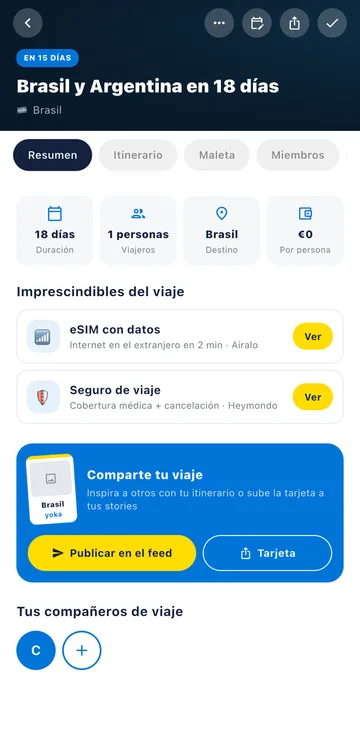
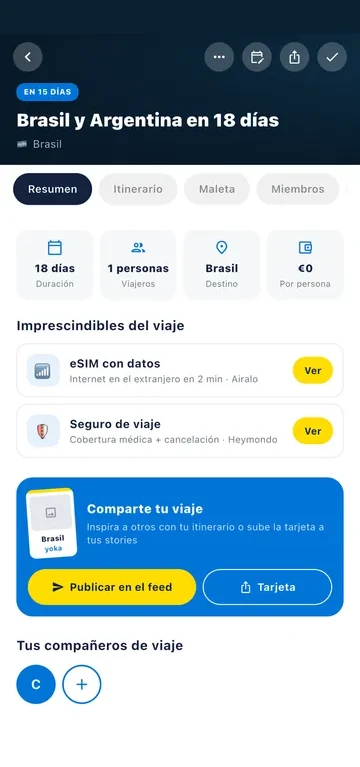
Capturas con margen superior para que no se coma el título
- Franja superior del color de cada pantalla en todas las capturas
- Proporción del marco de la portada ajustada para no recortar los lados

Claude-Session: https://claude.ai/code/session_019zYunJkvMAZWnFHBhGN1Kh

Changed region(s): [[0.0, 0.0, 1.0, 0.9304], [0.6417, 0.4502, 0.7028, 0.5102]]

diff --git a/como-funciona.html b/como-funciona.html
@@ -351,7 +351,7 @@
 
 
   /* ---------- CAPTURAS REALES DE LA APP ---------- */
-  .shot{width:160px; aspect-ratio:360/733; background:var(--ink); border-radius:26px; padding:5px; margin:0 auto 18px; box-shadow:0 14px 28px rgba(20,33,61,0.18);}
+  .shot{width:160px; aspect-ratio:360/767; background:var(--ink); border-radius:26px; padding:5px; margin:0 auto 18px; box-shadow:0 14px 28px rgba(20,33,61,0.18);}
   .shot img{display:block; width:100%; height:100%; object-fit:cover; object-position:top; border-radius:21px; background:var(--white);}
   .feature-card .mini-phone{zoom:1.72;}
   .feature-card{flex:0 0 230px;}
@@ -687,28 +687,28 @@
 <section class="how-it-works">
   <div class="hiw-grid">
     <div class="hiw-card reveal">
-      <div class="shot"><img src="img/app/nuevo-viaje.webp" alt="Crear un viaje nuevo en YOKA" loading="lazy" width="360" height="733"></div>
+      <div class="shot"><img src="img/app/nuevo-viaje.webp" alt="Crear un viaje nuevo en YOKA" loading="lazy" width="360" height="767"></div>
       <div class="hiw-icon">🧳</div>
       <span class="hiw-step" data-es="Paso 1" data-en="Step 1">Paso 1</span>
       <h3 data-es="Crea o importa tu viaje" data-en="Create or import your trip">Crea o importa tu viaje</h3>
       <p data-es="Arranca un plan desde cero o parte de uno que hayas visto en el feed, como plantilla para el tuyo." data-en="Start a plan from scratch, or start from one you saw on the feed, as a template for your own.">Arranca un plan desde cero o parte de uno que hayas visto en el feed, como plantilla para el tuyo.</p>
     </div>
     <div class="hiw-card reveal">
-      <div class="shot"><img src="img/app/miembros.webp" alt="Pantalla de compañeros de viaje en YOKA" loading="lazy" width="360" height="733"></div>
+      <div class="shot"><img src="img/app/miembros.webp" alt="Pantalla de compañeros de viaje en YOKA" loading="lazy" width="360" height="767"></div>
       <div class="hiw-icon">🔗</div>
       <span class="hiw-step" data-es="Paso 2" data-en="Step 2">Paso 2</span>
       <h3 data-es="Invita a tu grupo" data-en="Invite your group">Invita a tu grupo</h3>
       <p data-es="Suma a tu gente con un link. Sin líos de admins ni de quién sale del grupo." data-en="Add your people with a link. No admin drama, no one getting removed from the chat.">Suma a tu gente con un link. Sin líos de admins ni de quién sale del grupo.</p>
     </div>
     <div class="hiw-card reveal">
-      <div class="shot"><img src="img/app/itinerario.webp" alt="Itinerario día a día en YOKA" loading="lazy" width="360" height="733"></div>
+      <div class="shot"><img src="img/app/itinerario.webp" alt="Itinerario día a día en YOKA" loading="lazy" width="360" height="767"></div>
       <div class="hiw-icon">🗺</div>
       <span class="hiw-step" data-es="Paso 3" data-en="Step 3">Paso 3</span>
       <h3 data-es="Montad el itinerario" data-en="Build the itinerary">Montad el itinerario</h3>
       <p data-es="Actividades, alojamiento y gastos compartidos, todo organizado en la app." data-en="Activities, accommodation and shared expenses, all organized in the app.">Actividades, alojamiento y gastos compartidos, todo organizado en la app.</p>
     </div>
     <div class="hiw-card reveal">
-      <div class="shot"><img src="img/app/resumen.webp" alt="Resumen del viaje en YOKA, con el botón de publicar en el feed" loading="lazy" width="360" height="733"></div>
+      <div class="shot"><img src="img/app/resumen.webp" alt="Resumen del viaje en YOKA, con el botón de publicar en el feed" loading="lazy" width="360" height="767"></div>
       <div class="hiw-icon">📸</div>
       <span class="hiw-step" data-es="Paso 4" data-en="Step 4">Paso 4</span>
       <h3 data-es="Compartidlo en el feed" data-en="Share it on the feed">Compartidlo en el feed</h3>
@@ -725,52 +725,52 @@
   </div>
   <div class="features-scroll">
     <div class="feature-card reveal">
-      <div class="shot"><img src="img/app/gastos.webp" alt="Gastos del viaje en YOKA" loading="lazy" width="360" height="733"></div>
+      <div class="shot"><img src="img/app/gastos.webp" alt="Gastos del viaje en YOKA" loading="lazy" width="360" height="767"></div>
       <h3 data-es="Gastos del grupo" data-en="Group expenses">Gastos del grupo</h3>
       <p data-es="Apuntad quién pagó qué y la app hace las cuentas de quién debe a quién, sin salir de YOKA." data-en="Log who paid for what and the app works out who owes who, without leaving YOKA.">Apuntad quién pagó qué y la app hace las cuentas de quién debe a quién, sin salir de YOKA.</p>
     </div>
     <div class="feature-card reveal">
-      <div class="shot"><img src="img/app/maleta.webp" alt="Maleta del grupo en YOKA" loading="lazy" width="360" height="733"></div>
+      <div class="shot"><img src="img/app/maleta.webp" alt="Maleta del grupo en YOKA" loading="lazy" width="360" height="767"></div>
       <h3 data-es="Maleta del grupo" data-en="Group packing list">Maleta del grupo</h3>
       <p data-es="Repartid quién lleva qué y que cada uno tenga además su lista privada. Nada de cuatro secadores y ningún cargador." data-en="Share out who brings what, and everyone also gets their own private list. No more four hair dryers and no charger.">Repartid quién lleva qué y que cada uno tenga además su lista privada. Nada de cuatro secadores y ningún cargador.</p>
     </div>
     <div class="feature-card reveal">
-      <div class="shot"><img src="img/app/diario.webp" alt="Diario de viaje en YOKA" loading="lazy" width="360" height="733"></div>
+      <div class="shot"><img src="img/app/diario.webp" alt="Diario de viaje en YOKA" loading="lazy" width="360" height="767"></div>
       <h3 data-es="Diario de viaje" data-en="Trip journal">Diario de viaje</h3>
       <p data-es="Cada día hay una pregunta a la que puedes responder, o escribir lo que quieras. Con una parte para el grupo y otra solo para ti." data-en="Every day there's a question you can answer, or write freely instead. With a group section and a personal one just for you.">Cada día hay una pregunta a la que puedes responder, o escribir lo que quieras. Con una parte para el grupo y otra solo para ti.</p>
     </div>
     <div class="feature-card reveal">
-      <div class="shot"><img src="img/app/tareas.webp" alt="Tareas del grupo en YOKA" loading="lazy" width="360" height="733"></div>
+      <div class="shot"><img src="img/app/tareas.webp" alt="Tareas del grupo en YOKA" loading="lazy" width="360" height="767"></div>
       <h3 data-es="Tareas del grupo" data-en="Group to-dos">Tareas del grupo</h3>
       <p data-es="Reservar entradas, comprar el seguro, sacar los billetes: cada tarea con su responsable y marcada cuando está hecha." data-en="Book tickets, buy insurance, get the train tickets: every task with an owner, ticked off when it’s done.">Reservar entradas, comprar el seguro, sacar los billetes: cada tarea con su responsable y marcada cuando está hecha.</p>
     </div>
     <div class="feature-card reveal">
-      <div class="shot"><img src="img/app/ideas.webp" alt="Ideas y carpetas del viaje en YOKA" loading="lazy" width="360" height="733"></div>
+      <div class="shot"><img src="img/app/ideas.webp" alt="Ideas y carpetas del viaje en YOKA" loading="lazy" width="360" height="767"></div>
       <h3 data-es="Carpetas colaborativas" data-en="Shared folders">Carpetas colaborativas</h3>
       <p data-es="Cualquiera del grupo puede guardar en las carpetas del viaje museos, restaurantes o planes que haya visto en el feed, para tenerlos todos a mano." data-en="Anyone in the group can save museums, restaurants or plans they've seen on the feed into the trip's folders, to have them all on hand.">Cualquiera del grupo puede guardar en las carpetas del viaje museos, restaurantes o planes que haya visto en el feed, para tenerlos todos a mano.</p>
     </div>
     <div class="feature-card reveal">
-      <div class="shot"><img src="img/app/explorar.webp" alt="Explorar sitios en YOKA" loading="lazy" width="360" height="733"></div>
+      <div class="shot"><img src="img/app/explorar.webp" alt="Explorar sitios en YOKA" loading="lazy" width="360" height="767"></div>
       <h3 data-es="Explorar" data-en="Explore">Explorar</h3>
       <p data-es="Mira actividades, gente e itinerarios públicos de toda la comunidad, y busca justo lo que te interesa." data-en="Browse activities, people and public itineraries from the whole community, and search for exactly what you're after.">Mira actividades, gente e itinerarios públicos de toda la comunidad, y busca justo lo que te interesa.</p>
     </div>
     <div class="feature-card reveal">
-      <div class="shot"><img src="img/app/viajeros.webp" alt="Viajeros de tu ciudad en YOKA" loading="lazy" width="360" height="733"></div>
+      <div class="shot"><img src="img/app/viajeros.webp" alt="Viajeros de tu ciudad en YOKA" loading="lazy" width="360" height="767"></div>
       <h3 data-es="Seguir amigos" data-en="Follow friends">Seguir amigos</h3>
       <p data-es="Sigue a la gente cuyos itinerarios públicos te gustan, para no perderte los que compartan después." data-en="Follow people whose public itineraries you like, so you don't miss the ones they share next.">Sigue a la gente cuyos itinerarios públicos te gustan, para no perderte los que compartan después.</p>
     </div>
     <div class="feature-card reveal">
-      <div class="shot"><img src="img/app/gemelo.webp" alt="Tu gemelo viajero en YOKA" loading="lazy" width="360" height="733"></div>
+      <div class="shot"><img src="img/app/gemelo.webp" alt="Tu gemelo viajero en YOKA" loading="lazy" width="360" height="767"></div>
       <h3 data-es="Tu gemelo viajero" data-en="Your travel twin">Tu gemelo viajero</h3>
       <p data-es="Cada día te presentamos a la persona con el pasaporte más parecido al tuyo. Solo aparecen quienes lo han activado." data-en="Every day we introduce you to the person whose passport is most like yours. Only people who have turned it on appear.">Cada día te presentamos a la persona con el pasaporte más parecido al tuyo. Solo aparecen quienes lo han activado.</p>
     </div>
     <div class="feature-card reveal">
-      <div class="shot"><img src="img/app/mis-paises.webp" alt="Tarjeta de Mis países en YOKA" loading="lazy" width="360" height="733"></div>
+      <div class="shot"><img src="img/app/mis-paises.webp" alt="Tarjeta de Mis países en YOKA" loading="lazy" width="360" height="767"></div>
       <h3 data-es="Acumula países en tu perfil" data-en="Collect countries on your profile">Acumula países en tu perfil</h3>
       <p data-es="Cada viaje que completas suma un país a tu perfil, como un mapa de todos los sitios por los que has pasado con tu gente." data-en="Every trip you complete adds a country to your profile, like a map of everywhere you've been with your people.">Cada viaje que completas suma un país a tu perfil, como un mapa de todos los sitios por los que has pasado con tu gente.</p>
     </div>
     <div class="feature-card reveal">
-      <div class="shot"><img src="img/app/maps.webp" alt="Itinerario del día abierto en Maps" loading="lazy" width="360" height="733"></div>
+      <div class="shot"><img src="img/app/maps.webp" alt="Itinerario del día abierto en Maps" loading="lazy" width="360" height="767"></div>
       <h3 data-es="Itinerario en Maps" data-en="Itinerary on Maps">Itinerario en Maps</h3>
       <p data-es="Abre el plan del día directamente en Maps, con cada actividad ubicada y lista para llegar sin perderte." data-en="Open the day's plan straight in Maps, with every activity pinned and ready so you don't get lost.">Abre el plan del día directamente en Maps, con cada actividad ubicada y lista para llegar sin perderte.</p>
     </div>

diff --git a/index.html b/index.html
@@ -313,6 +313,7 @@
 
   .shot-screen img{display:block; width:100%; height:100%; object-fit:cover; object-position:top;}
   .phone::before{display:none;}
+  .phone{height:auto !important; aspect-ratio:260/522;}
   /* phone mockup */
   .phone{
     width:260px; height:530px;
@@ -713,7 +714,7 @@
   <div class="phone-col">
     <div class="phone-wrap reveal">
     <div class="phone">
-      <div class="screen shot-screen"><img src="img/app/explorar.webp" alt="Explorar sitios de otros viajeros en YOKA" width="360" height="733" loading="lazy"></div>
+      <div class="screen shot-screen"><img src="img/app/explorar.webp" alt="Explorar sitios de otros viajeros en YOKA" width="360" height="767" loading="lazy"></div>
     </div>
     <div class="store-badges">
       <a href="https://apps.apple.com/es/app/yoka-viaja-con-amigos/id6808558555" target="_blank" rel="noopener" class="store-badge" aria-label="Descargar YOKA en la App Store" data-goatcounter-click="clic-app-store">
@@ -747,7 +748,7 @@
   <div class="phone-col">
     <div class="phone-wrap reveal">
       <div class="phone">
-        <div class="screen shot-screen"><img src="img/app/itinerario.webp" alt="Itinerario día a día en YOKA" width="360" height="733" loading="lazy"></div>
+        <div class="screen shot-screen"><img src="img/app/itinerario.webp" alt="Itinerario día a día en YOKA" width="360" height="767" loading="lazy"></div>
       </div>
     <div class="store-badges">
       <a href="https://apps.apple.com/es/app/yoka-viaja-con-amigos/id6808558555" target="_blank" rel="noopener" class="store-badge" aria-label="Descargar YOKA en la App Store" data-goatcounter-click="clic-app-store">
